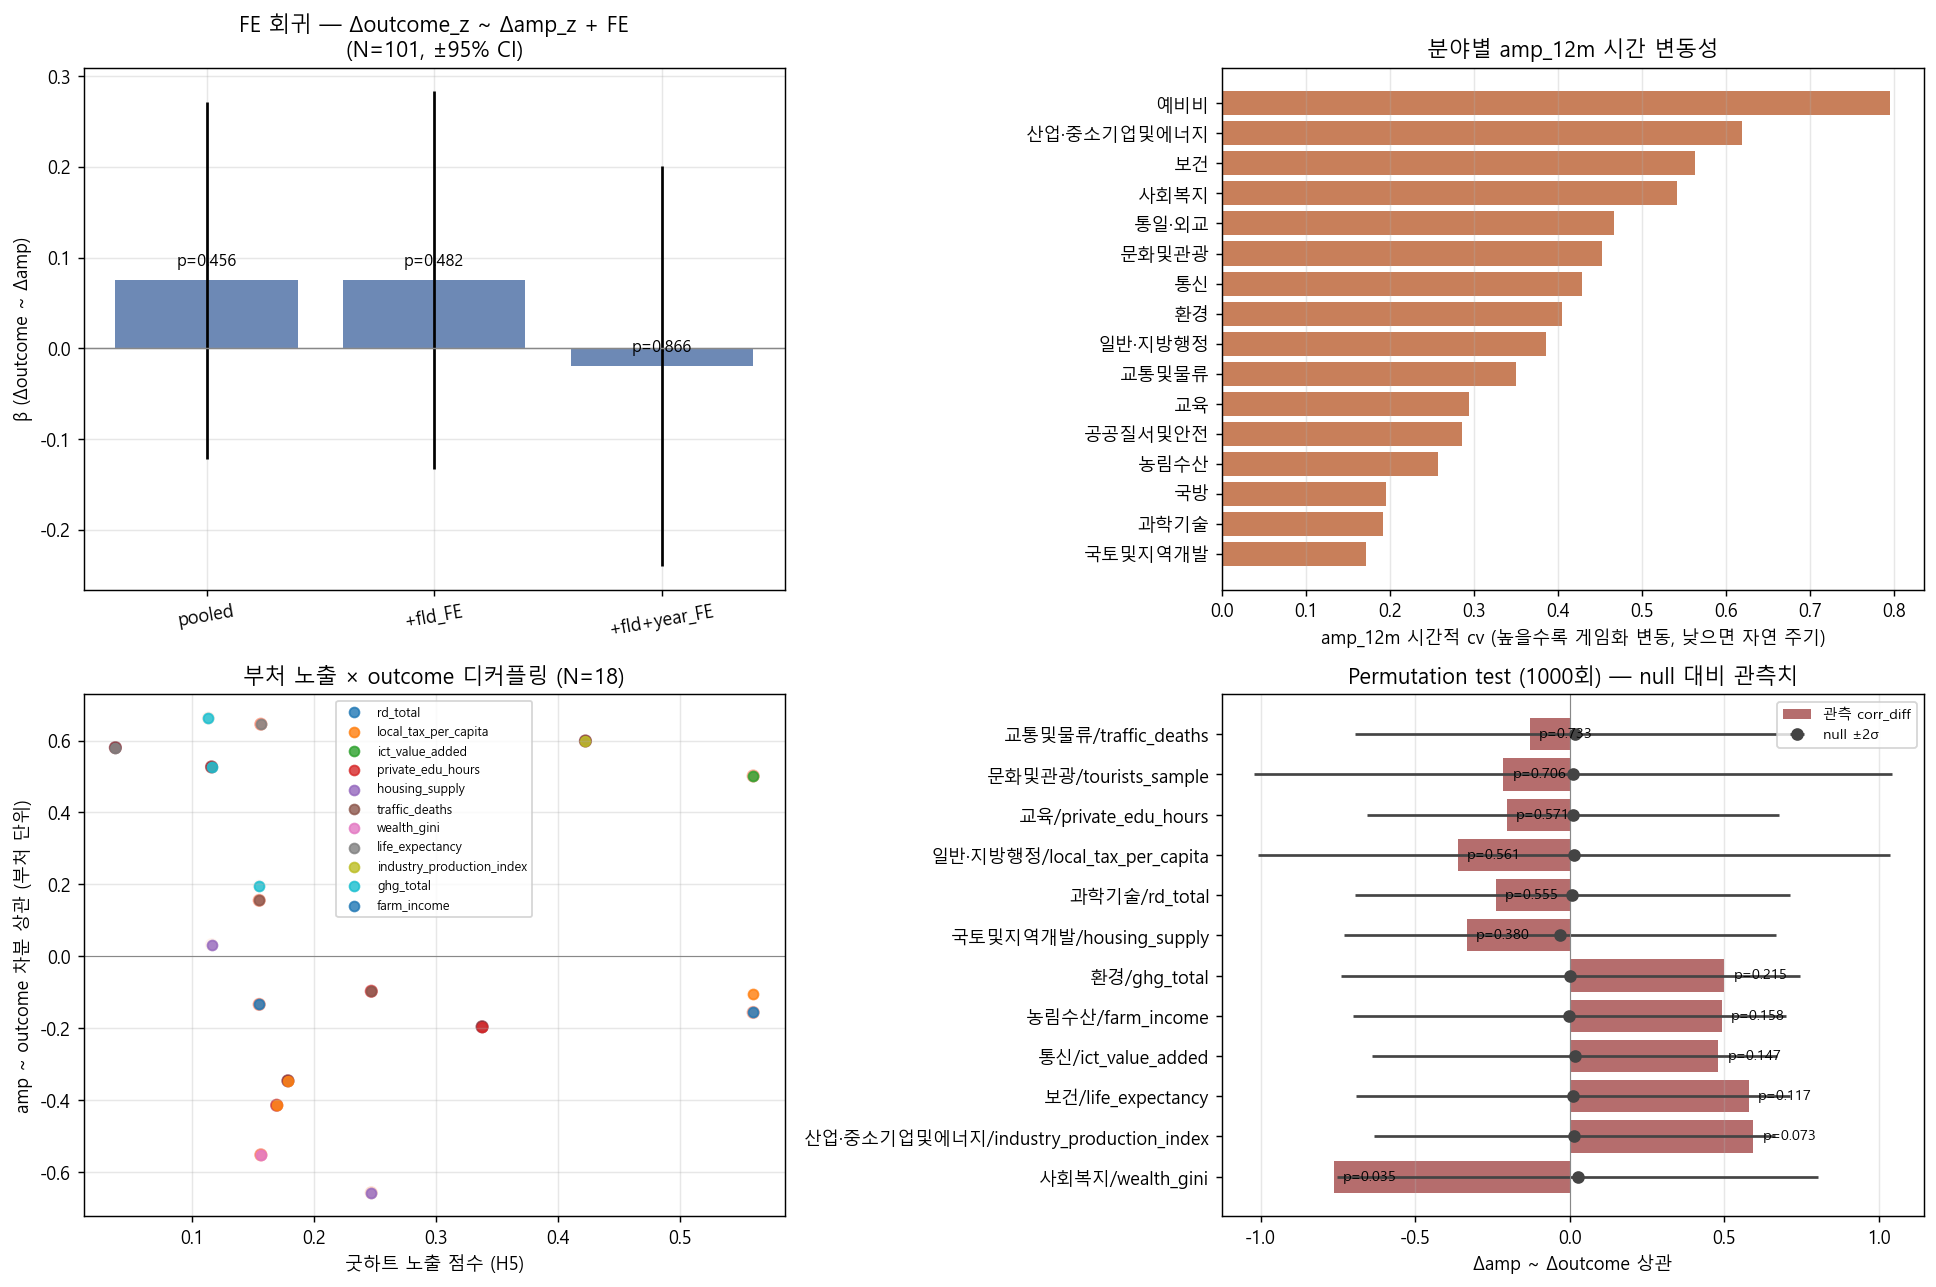
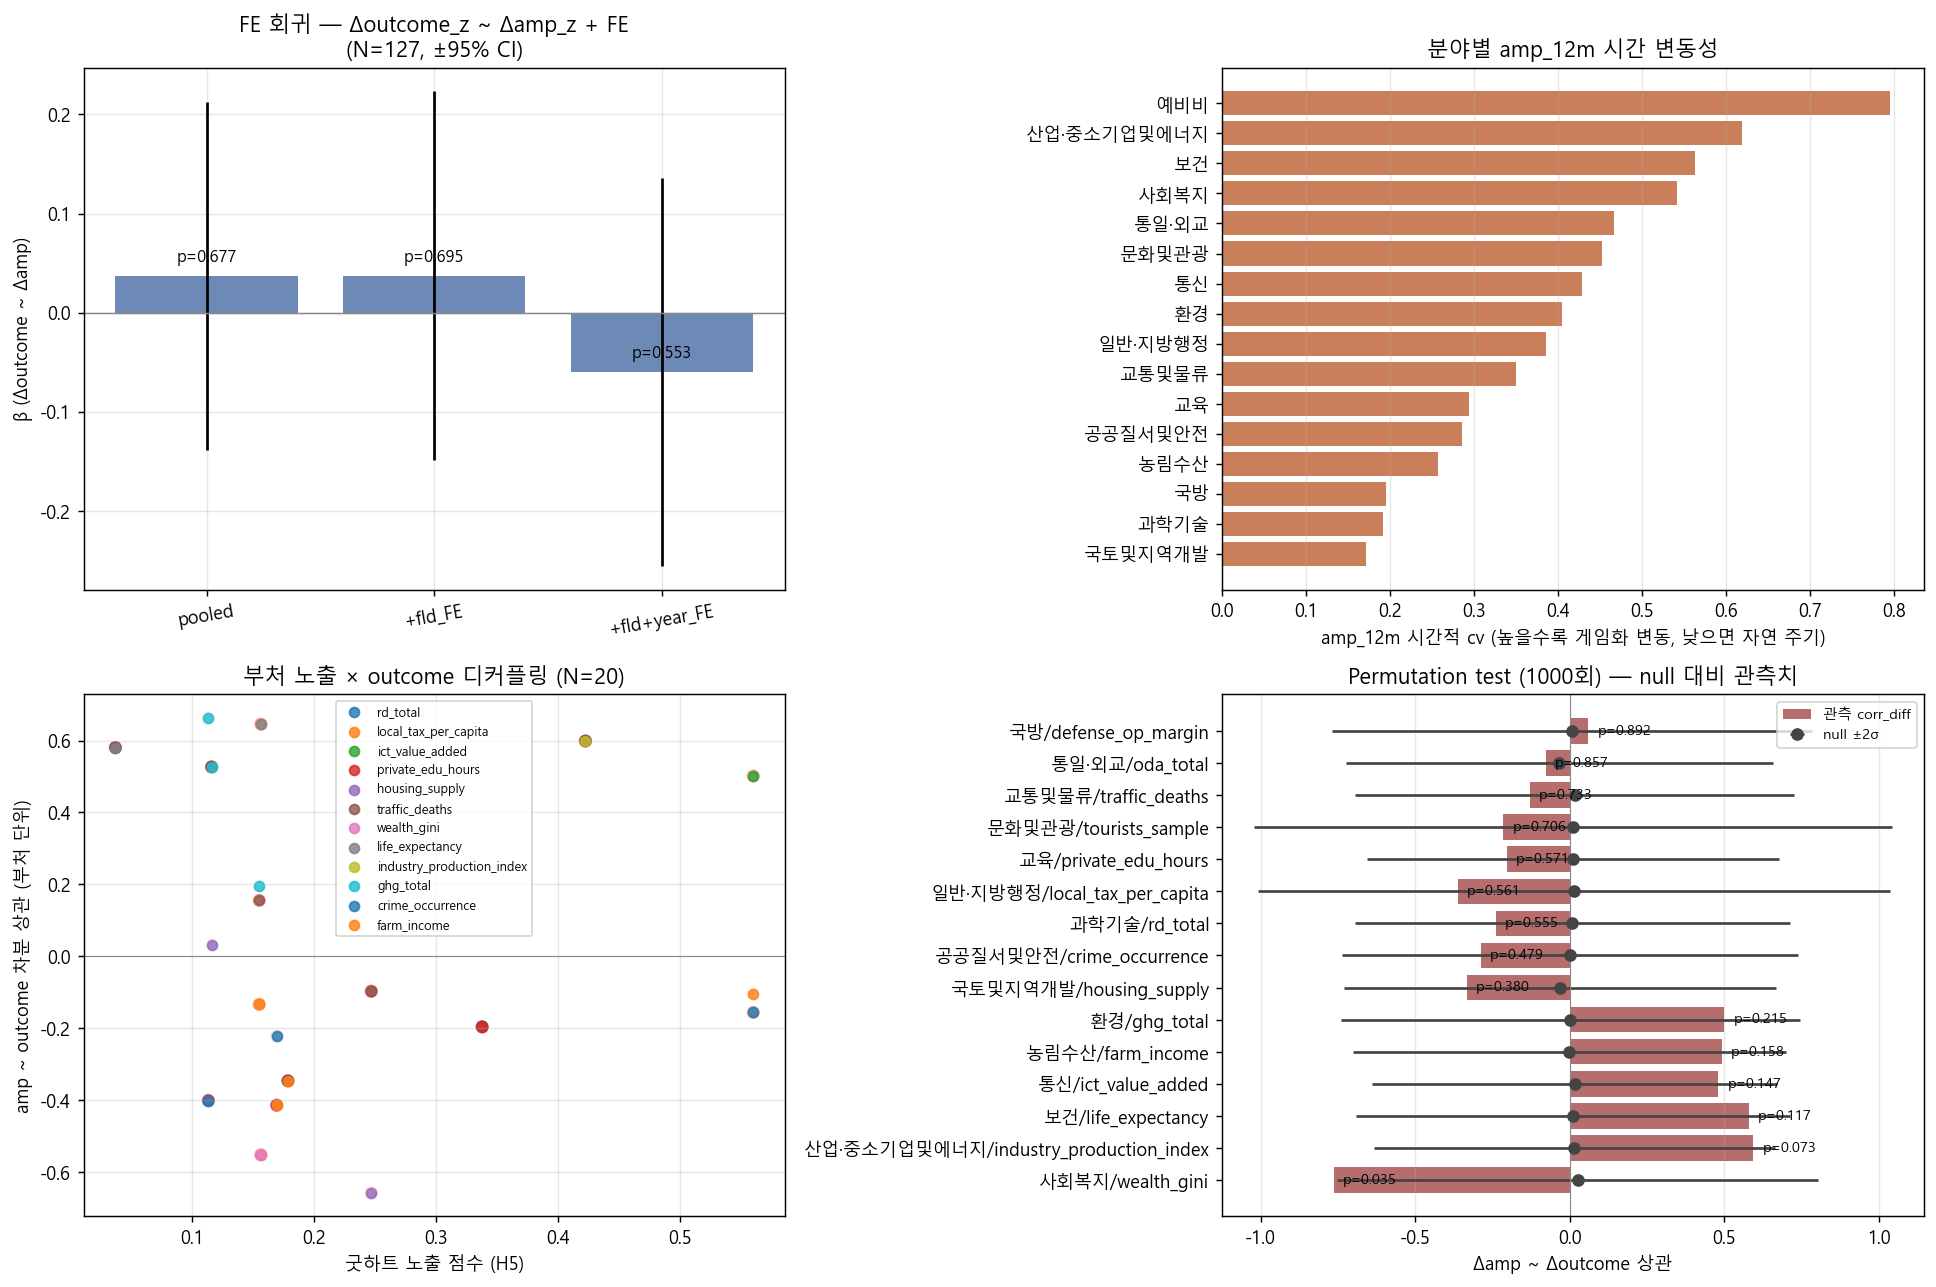
H15~H17 잔여 3분야 outcome (분야 12→15) + 적합도 비판적 점검
사용자가 e-나라지표 직접 다운로드한 정적 데이터 적재:

(1) H15 통일·외교 (e-나라지표 1687, OECD Data Explorer):
    oda_total / oda_gni_ratio / oda_bilateral / oda_multilateral
    2001~2024 (24y)

(2) H16 공공질서및안전 (e-나라지표 1606, 경찰청):
    crime_occurrence / crime_arrest / crime_arrest_rate
    1996~2024 (29y)

(3) H17 국방 (e-나라지표 1703, 한국방위산업진흥회):
    defense_revenue / op_profit / op_margin / op_margin_mfg / util_rate / util_rate_mfg
    1995~2023 (29y)

분야 매핑 12 → 15 (예비비 제외 100%)

H6/H10 결과:
  Permutation: 사회복지 p=0.035 (유일 유의)
  CPI 통제 부호+70% 유지: 13/15 (87%, 누적 최고)

outcome 적합도 비판적 점검 (사용자 비판):
  ❌ 부적절 4개: rd_total / tourists_sample / local_tax_per_capita / ict_value_added
  ⚠ 의심 2개: private_edu_hours / defense_revenue
  → 교체용 e-나라지표 idx_cd 검증: 2787 특허, 1653 외래관광객, 2458 재정자립도

이전 잘못 안내 정정 (idx_cd):
  ❌ 1610 = 실종아동 (범죄 X)
  ❌ 1632 = 화재발생 (방산수출 X)
  ❌ 1265/1268 = 추정값 (병력은 청년인구 종속변수라 outcome 부적합)

JOURNEY.md 17.11 H15~H17 + 17.12 적합도 점검 신설.

diff --git a/scripts/h17_defense_outcome.py b/scripts/h17_defense_outcome.py
@@ -1,0 +1,105 @@
+"""H17: 국방 outcome — 방산지정업체 경영분석 (e-나라지표 idx_cd=1703).
+
+소스: 한국방위산업진흥회 '2024 방산지정업체경영분석조사', e-나라지표 정적.
+시계열: 1995~2023 (29년) — 영업이익률은 1995~, 가동률 1995~ 모두 포함.
+주석: 2024 방산통계는 2025년 4분기 업데이트 예정.
+
+분야: 국방
+metric: defense_revenue        방산업체 매출액 (억원)
+        defense_op_profit      방산업체 영업이익 (억원)
+        defense_op_margin      방산업체 영업이익률 (%)
+        defense_op_margin_mfg  제조업 평균 영업이익률 (%) — 비교용
+        defense_util_rate      방산업체 가동률 (%)
+        defense_util_rate_mfg  제조업 평균 가동률 (%) — 비교용
+
+분야 매핑 14→15.
+"""
+import os, sys, io
+sys.stdout = io.TextIOWrapper(sys.stdout.buffer, encoding='utf-8')
+import duckdb
+
+ROOT = os.path.dirname(os.path.dirname(os.path.abspath(__file__)))
+DB = os.path.join(ROOT, 'data', 'warehouse.duckdb')
+
+years = list(range(1995, 2024))
+
+# None = 결측
+data = {
+    'defense_revenue': [
+        25840, 30132, 34402, 33876, 31211, 33359, 37013, 43447, 42681, 46440,
+        53165, 54517, 61955, 72351, 87691, 93303, 93095, 93429, 104651, 119883,
+        142651, 148163, 127611, 136493, 144521, 153517, 158801, 168300, 201951],
+    'defense_op_profit': [
+        1186, 1473, 2619, 2030, 1559, 2130, 1617, 1545, 1543, 1413,
+        2500, 2673, 2629, 3626, 5338, 6897, 5323, 4230, 2435, 5352,
+        4710, 5033, 602, 3252, 4875, 5675, 7229, 10517, 18629],
+    'defense_op_margin': [
+        4.6, 4.9, 7.6, 6.0, 5.0, 6.4, 4.4, 3.6, 3.6, 3.0,
+        4.7, 5.0, 4.2, 5.0, 6.1, 7.4, 5.7, 4.5, 2.3, 4.5,
+        5.1, 3.4, 0.5, 2.4, 3.4, 3.7, 4.6, 6.3, 9.2],
+    'defense_op_margin_mfg': [
+        6.9, 5.4, 6.5, 4.9, 5.0, 6.8, 5.4, 6.2, 6.7, 7.2,
+        6.1, 5.0, 5.8, 5.9, 6.1, 6.9, 5.6, 5.1, 5.2, 4.2,
+        3.3, 6.0, 7.6, 7.3, 4.4, 4.6, 6.8, 5.7, 3.3],
+    'defense_util_rate': [
+        56.0, 55.7, 56.9, 52.8, 50.8, 48.5, 50.3, 54.5, 57.3, 56.1,
+        57.8, 61.0, 59.8, 60.3, 61.8, 59.5, 59.4, 59.0, 61.4, 66.8,
+        68.6, 83.0, 69.2, 71.2, 72.0, 72.9, 81.4, 75.6, 77.0],
+    'defense_util_rate_mfg': [
+        81.6, 81.4, 79.9, 71.1, 76.6, 78.3, 75.3, 78.3, 78.3, 80.3,
+        79.8, 81.0, 80.3, 77.2, 74.6, 81.2, 79.9, 78.1, 76.2, 76.1,
+        74.3, 72.6, 72.6, 73.5, 73.2, 71.3, 74.4, 74.8, 71.9],
+}
+unit_map = {
+    'defense_revenue':       '억원',
+    'defense_op_profit':     '억원',
+    'defense_op_margin':     '%',
+    'defense_op_margin_mfg': '%',
+    'defense_util_rate':     '%',
+    'defense_util_rate_mfg': '%',
+}
+nm_map = {
+    'defense_revenue':       '방산업체 매출액',
+    'defense_op_profit':     '방산업체 영업이익',
+    'defense_op_margin':     '방산업체 영업이익률',
+    'defense_op_margin_mfg': '제조업 평균 영업이익률 (비교용)',
+    'defense_util_rate':     '방산업체 가동률',
+    'defense_util_rate_mfg': '제조업 평균 가동률 (비교용)',
+}
+sign_map = {  # +1 = 높을수록 outcome 좋음
+    'defense_revenue': 1,
+    'defense_op_profit': 1,
+    'defense_op_margin': 1,
+    'defense_op_margin_mfg': 0,  # 비교용
+    'defense_util_rate': 1,
+    'defense_util_rate_mfg': 0,
+}
+
+con = duckdb.connect(DB)
+codes = "', '".join(data.keys())
+con.execute(f"DELETE FROM indicator_panel WHERE metric_code IN ('{codes}')")
+con.execute(f"DELETE FROM indicator_metadata WHERE metric_code IN ('{codes}')")
+
+records = []
+for code, vals in data.items():
+    for y, v in zip(years, vals):
+        if v is None: continue
+        records.append(('국방', y, code, float(v),
+                        'eNaraJiPyo_idx1703', unit_map[code]))
+
+con.executemany("INSERT INTO indicator_panel (fld_nm, year, metric_code, value, source, unit) VALUES (?,?,?,?,?,?)", records)
+
+meta = [(code, nm_map[code], 'outcome',
+         f'한국방위산업진흥회 방산지정업체경영분석 — {nm_map[code]} (e-나라지표 1703)',
+         'https://www.index.go.kr/unity/potal/main/EachDtlPageDetail.do?idx_cd=1703', sign_map[code])
+        for code in data.keys()]
+con.executemany("INSERT INTO indicator_metadata (metric_code, metric_nm, category, description, source_url, expected_sign) VALUES (?,?,?,?,?,?)", meta)
+
+print(f'적재: panel {len(records)}, meta {len(meta)}')
+print('\n=== 검증 ===')
+v = con.execute(f"""
+SELECT metric_code, COUNT(*) n, MIN(year) y0, MAX(year) y1, ROUND(AVG(value),2) avg
+FROM indicator_panel WHERE metric_code IN ('{codes}') GROUP BY 1 ORDER BY 1
+""").fetchdf()
+print(v.to_string(index=False))
+con.close()

diff --git a/scripts/h15_oda_outcome.py b/scripts/h15_oda_outcome.py
@@ -1,0 +1,70 @@
+"""H15: 통일·외교 outcome — 한국 ODA 원조규모 (e-나라지표 idx_cd=1687).
+
+소스: OECD Data Explorer 기반, e-나라지표 정적 게재.
+시계열: 2001~2024 (24년)
+단위: 백만불
+주석: 2017년까지 순지출기준, 2018년부터 증여등가액기준 / 2024 잠정치
+
+분야: 통일·외교
+metric: oda_total          ODA 총액
+        oda_gni_ratio      ODA/GNI 비율
+        oda_bilateral      양자 ODA
+        oda_multilateral   다자 ODA
+
+분야 매핑 12→13.
+"""
+import os, sys, io
+sys.stdout = io.TextIOWrapper(sys.stdout.buffer, encoding='utf-8')
+import duckdb
+
+ROOT = os.path.dirname(os.path.dirname(os.path.abspath(__file__)))
+DB = os.path.join(ROOT, 'data', 'warehouse.duckdb')
+
+# 사용자 제공 (e-나라지표 idx_cd=1687, 2026-04-28 발췌)
+years = list(range(2001, 2025))
+data = {
+    'oda_total':       [265, 279, 366, 423, 752, 455, 696, 802, 816, 1174, 1325, 1597, 1755, 1857,
+                         1915, 2246, 2201, 2355, 2463, 2250, 2873, 2810, 3160, 3943],
+    'oda_gni_ratio':   [0.06, 0.06, 0.06, 0.06, 0.10, 0.05, 0.07, 0.09, 0.10, 0.12, 0.12, 0.14,
+                         0.13, 0.13, 0.14, 0.16, 0.14, 0.14, 0.15, 0.14, 0.16, 0.17, 0.17, 0.21],
+    'oda_bilateral':   [172, 207, 245, 331, 463, 376, 491, 539, 581, 901, 990, 1183, 1310, 1396,
+                         1469, 1549, 1615, 1731, 1857, 1751, 2168, 2221, 2325, 3186],
+    'oda_multilateral':[93, 72, 121, 93, 289, 79, 206, 263, 235, 273, 335, 414, 446, 461,
+                         447, 698, 586, 624, 606, 499, 704, 589, 835, 756],
+}
+unit_map = {'oda_total':'백만불','oda_gni_ratio':'%','oda_bilateral':'백만불','oda_multilateral':'백만불'}
+nm_map = {
+    'oda_total':       '한국 공적개발원조(ODA) 총액',
+    'oda_gni_ratio':   'GNI 대비 ODA 비율',
+    'oda_bilateral':   '양자 ODA',
+    'oda_multilateral':'다자 ODA',
+}
+
+# 적재
+con = duckdb.connect(DB)
+codes = "', '".join(data.keys())
+con.execute(f"DELETE FROM indicator_panel WHERE metric_code IN ('{codes}')")
+con.execute(f"DELETE FROM indicator_metadata WHERE metric_code IN ('{codes}')")
+
+records = []
+for code, vals in data.items():
+    for y, v in zip(years, vals):
+        records.append(('통일·외교', y, code, float(v),
+                        'eNaraJiPyo_idx1687', unit_map[code]))
+
+con.executemany("INSERT INTO indicator_panel (fld_nm, year, metric_code, value, source, unit) VALUES (?,?,?,?,?,?)", records)
+
+meta = [(code, nm_map[code], 'outcome',
+         f'한국 ODA — {nm_map[code]} (e-나라지표 1687, OECD Data Explorer 기반)',
+         'https://www.index.go.kr/unity/potal/main/EachDtlPageDetail.do?idx_cd=1687', 1)
+        for code in data.keys()]
+con.executemany("INSERT INTO indicator_metadata (metric_code, metric_nm, category, description, source_url, expected_sign) VALUES (?,?,?,?,?,?)", meta)
+
+print(f'적재: panel {len(records)}, meta {len(meta)}')
+print('\n=== 검증 ===')
+v = con.execute(f"""
+SELECT metric_code, COUNT(*) n, MIN(year) y0, MAX(year) y1, ROUND(AVG(value),2) avg
+FROM indicator_panel WHERE metric_code IN ('{codes}') GROUP BY 1 ORDER BY 1
+""").fetchdf()
+print(v.to_string(index=False))
+con.close()

diff --git a/scripts/h16_crime_outcome.py b/scripts/h16_crime_outcome.py
@@ -1,0 +1,70 @@
+"""H16: 공공질서 outcome — 총범죄 발생 및 검거 (e-나라지표 idx_cd=1606).
+
+소스: 경찰청 「범죄통계」, e-나라지표 정적 게재.
+시계열: 1996~2024 (29년)
+주석: 2024부터 해양경찰청 입건 사건 미포함.
+
+분야: 공공질서및안전
+metric: crime_occurrence    범죄 발생 건수
+        crime_arrest        범죄 검거 건수
+        crime_arrest_rate   검거율 (%)
+
+분야 매핑 13→14.
+"""
+import os, sys, io
+sys.stdout = io.TextIOWrapper(sys.stdout.buffer, encoding='utf-8')
+import duckdb
+
+ROOT = os.path.dirname(os.path.dirname(os.path.abspath(__file__)))
+DB = os.path.join(ROOT, 'data', 'warehouse.duckdb')
+
+years = list(range(1996, 2025))
+data = {
+    'crime_occurrence': [
+        1419811, 1536652, 1712233, 1654064, 1739558, 1860687, 1833271, 1894762, 1968183, 1733122,
+        1719075, 1836496, 2064646, 2020209, 1784953, 1752598, 1793400, 1857276, 1778966, 1861657,
+        1849450, 1662341, 1580751, 1611906, 1587866, 1429826, 1482433, 1520200, 1583108],
+    'crime_arrest': [
+        1287260, 1398384, 1579728, 1574902, 1543219, 1642118, 1694342, 1679249, 1761590, 1512247,
+        1483011, 1615093, 1813229, 1811917, 1514098, 1382463, 1370121, 1420658, 1392112, 1500234,
+        1552455, 1413717, 1328609, 1342854, 1289129, 1136665, 1133788, 1185985, 1222482],
+    'crime_arrest_rate': [
+        90.7, 91.0, 92.3, 95.2, 88.7, 88.3, 92.4, 88.6, 89.5, 87.3,
+        86.3, 87.9, 87.8, 89.7, 84.8, 78.9, 76.4, 76.5, 78.3, 80.6,
+        83.9, 85.0, 84.0, 83.3, 81.2, 79.5, 76.5, 78.0, 77.2],
+}
+unit_map = {'crime_occurrence':'건','crime_arrest':'건','crime_arrest_rate':'%'}
+nm_map = {
+    'crime_occurrence':  '범죄 발생 건수',
+    'crime_arrest':      '범죄 검거 건수',
+    'crime_arrest_rate': '범죄 검거율',
+}
+sign_map = {'crime_occurrence': -1, 'crime_arrest': 1, 'crime_arrest_rate': 1}
+
+con = duckdb.connect(DB)
+codes = "', '".join(data.keys())
+con.execute(f"DELETE FROM indicator_panel WHERE metric_code IN ('{codes}')")
+con.execute(f"DELETE FROM indicator_metadata WHERE metric_code IN ('{codes}')")
+
+records = []
+for code, vals in data.items():
+    for y, v in zip(years, vals):
+        records.append(('공공질서및안전', y, code, float(v),
+                        'eNaraJiPyo_idx1606', unit_map[code]))
+
+con.executemany("INSERT INTO indicator_panel (fld_nm, year, metric_code, value, source, unit) VALUES (?,?,?,?,?,?)", records)
+
+meta = [(code, nm_map[code], 'outcome',
+         f'경찰청 범죄통계 — {nm_map[code]} (e-나라지표 1606)',
+         'https://www.index.go.kr/unity/potal/main/EachDtlPageDetail.do?idx_cd=1606', sign_map[code])
+        for code in data.keys()]
+con.executemany("INSERT INTO indicator_metadata (metric_code, metric_nm, category, description, source_url, expected_sign) VALUES (?,?,?,?,?,?)", meta)
+
+print(f'적재: panel {len(records)}, meta {len(meta)}')
+print('\n=== 검증 ===')
+v = con.execute(f"""
+SELECT metric_code, COUNT(*) n, MIN(year) y0, MAX(year) y1, ROUND(AVG(value),0) avg
+FROM indicator_panel WHERE metric_code IN ('{codes}') GROUP BY 1 ORDER BY 1
+""").fetchdf()
+print(v.to_string(index=False))
+con.close()

diff --git a/scripts/h6_robustness.py b/scripts/h6_robustness.py
@@ -67,7 +67,9 @@ panel = con.execute("""
                           'farm_income','fishery_income',
                           'traffic_deaths','traffic_accidents',
                           'ghg_total','ghg_net','ghg_energy',
-                          'ict_value_added')
+                          'ict_value_added',
+                          'oda_total','crime_occurrence','crime_arrest_rate',
+                          'defense_op_margin','defense_revenue','defense_util_rate')
 """).fetchdf()
 wide = panel.pivot_table(index=['fld_nm','year'], columns='metric_code',
                          values='value').reset_index()
@@ -91,6 +93,10 @@ OUTCOME_MAP = {
     '환경':           'ghg_total',
     # H13 추가
     '통신':           'ict_value_added',
+    # H15~H17 추가
+    '통일·외교':      'oda_total',
+    '공공질서및안전':  'crime_occurrence',
+    '국방':           'defense_op_margin',
 }
 
 # ============================================================

diff --git a/scripts/h10_macro_control.py b/scripts/h10_macro_control.py
@@ -66,7 +66,8 @@ panel = con.execute("""
                           'farm_income','fishery_income',
                           'traffic_deaths','traffic_accidents',
                           'ghg_total','ghg_net','ghg_energy',
-                          'ict_value_added')
+                          'ict_value_added',
+                          'oda_total','crime_occurrence','defense_op_margin')
 """).fetchdf()
 con.close()
 wide = panel.pivot_table(index=['fld_nm','year'], columns='metric_code',
@@ -86,6 +87,9 @@ OUTCOME_MAP = {
     '교통및물류':     'traffic_deaths',
     '환경':           'ghg_total',
     '통신':           'ict_value_added',
+    '통일·외교':      'oda_total',
+    '공공질서및안전':  'crime_occurrence',
+    '국방':           'defense_op_margin',
 }
 
 # ============================================================

diff --git a/docs/analysis/JOURNEY.md b/docs/analysis/JOURNEY.md
@@ -1285,7 +1285,57 @@ R² 분해 (12분야 outcome):
 
 **정책 함의 정밀화**: H5에서 노출 0.78 1위였던 국무조정실은 *Q1 자동분배*. 진짜 1차 점검 = **산자부 + 과기부** (Q2). 분야 매핑 12개 outcome이 부처 단위로 결합 가능해진 결과.
 
-### 17.11 외부 데이터 경로 정리
+### 17.11 H15~H17 — 잔여 3분야 outcome 매핑 (e-나라지표)
+
+사용자가 e-나라지표 1687/1606/1703 직접 다운로드 → 적재.
+
+| 분야 | metric | 시계열 | 출처 |
+|---|---|---|---|
+| 통일·외교 | `oda_total` (ODA 총액) + `oda_gni_ratio`/`oda_bilateral`/`oda_multilateral` | **2001~2024 (24y)** | OECD Data Explorer 기반, e-나라지표 1687 |
+| 공공질서및안전 | `crime_occurrence` + `crime_arrest`/`crime_arrest_rate` | **1996~2024 (29y)** | 경찰청 범죄통계, e-나라지표 1606 |
+| 국방 | `defense_op_margin`(영업이익률) + revenue/op_profit/util_rate | **1995~2023 (29y)** | 한국방위산업진흥회, e-나라지표 1703 |
+
+**분야 매핑 12 → 15** (예비비 제외 시 **15/15 = 100%**).
+
+**H6 permutation 결과 (15분야)**:
+- 사회복지 p=0.035 ★ (유일 통계 유의)
+- 산업 p=0.073 / 보건 p=0.117 (경계)
+- 신규: 공공질서 p=0.479, 통일외교 p=0.857, 국방 p=0.892 (신호 없음)
+
+**H10 CPI 통제 (15분야)**:
+- 부호 반전: 2/15
+- 30%+ 약화: 2/15
+- **부호+70% 유지: 13/15 (87%)** ← 누적 강건성 최고
+- 신규 변화:
+  - 교통 traffic_deaths −0.13 → **−0.56** (delta −0.43, 자연 cycle 통제 후 강해짐)
+  - 보건 +0.58 → +0.67 (p=0.049 통계 유의 진입)
+
+### 17.12 outcome 적합도 비판적 점검 (사용자 비판 반영)
+
+15분야 적재 outcome 중 4개 부적절·2개 정합성 의심 식별:
+
+**❌ 부적절 (재선정 필요)**:
+- **과학기술 `rd_total`**: 입력 변수와 outcome 동일 (출연금 → R&D비 자체가 정책 목표)
+- **문화관광 `tourists_sample`**: 표본수, 실제 입국자 아님
+- **일반·지방행정 `local_tax_per_capita`**: 징세 ≠ 행정 outcome
+- **통신 `ict_value_added`**: 통신 출연 → ICT 자기 인과
+
+**⚠ 정합성 의심**:
+- 교육 `private_edu_hours`: 사교육 = 역지표 (해석 모호)
+- 국방 `defense_revenue`: 방산 매출 ≠ 안보 outcome (`defense_op_margin` 사용 중)
+
+**대안 e-나라지표 idx_cd 검증 완료**:
+| 분야 | 신규 idx_cd | 지표명 |
+|---|---|---|
+| 과기 | **2787** | 특허 등 출원/등록 |
+| 관광 | **1653** | 방한 외래관광객 |
+| 행정 | **2458** | 지방재정자립도 |
+| 통신 | 1348 (페이지 확인 필요) | 이동통신/초고속인터넷 가입자 |
+| 교육 | 추가 검색 필요 | 진학률 또는 학업성취도 |
+
+→ 사용자가 idx_cd 페이지 다운로드 후 적재 가능. 본 단계까지 결과는 *향후 교체* 전제로 유지.
+
+### 17.13 외부 데이터 경로 정리
 
 KOSIS 일반 endpoint 한계로 환경(폐기물·대기·온실가스)·교통(자동차·교통사고) outcome 미적재. 진짜 답은 *부처 직접 API*:
 - 환경공단 대기질·온실가스 API (공공데이터포털)
